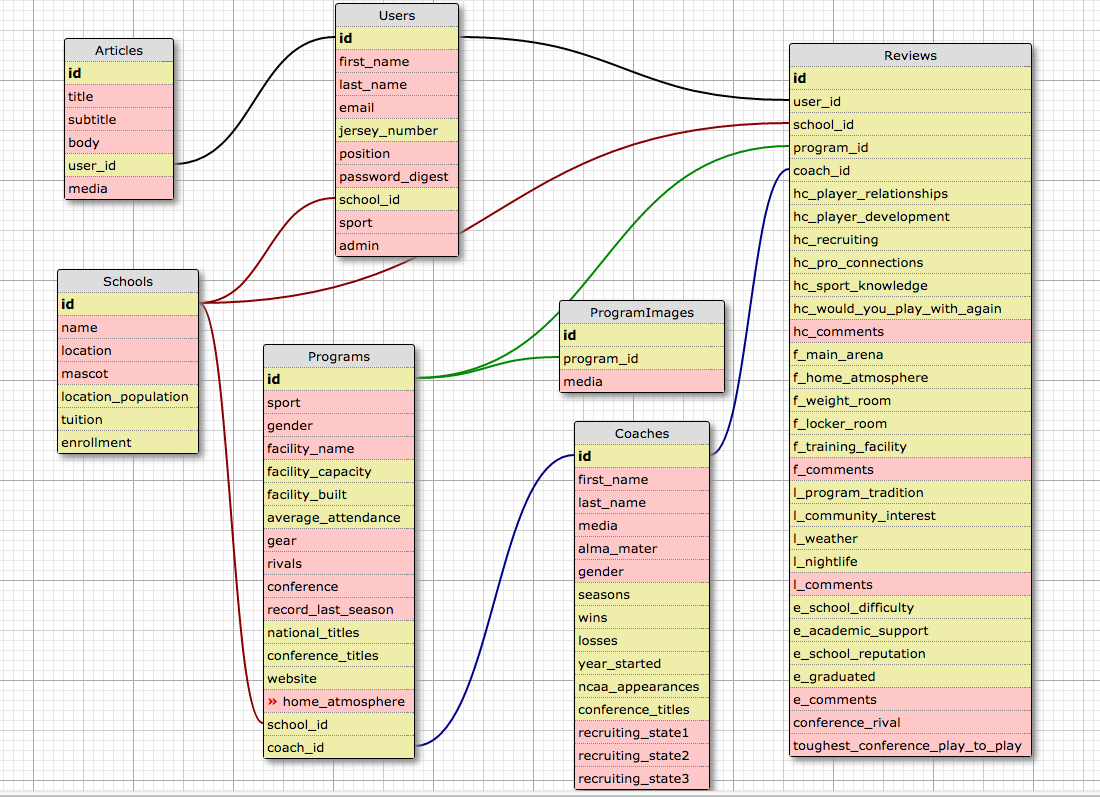
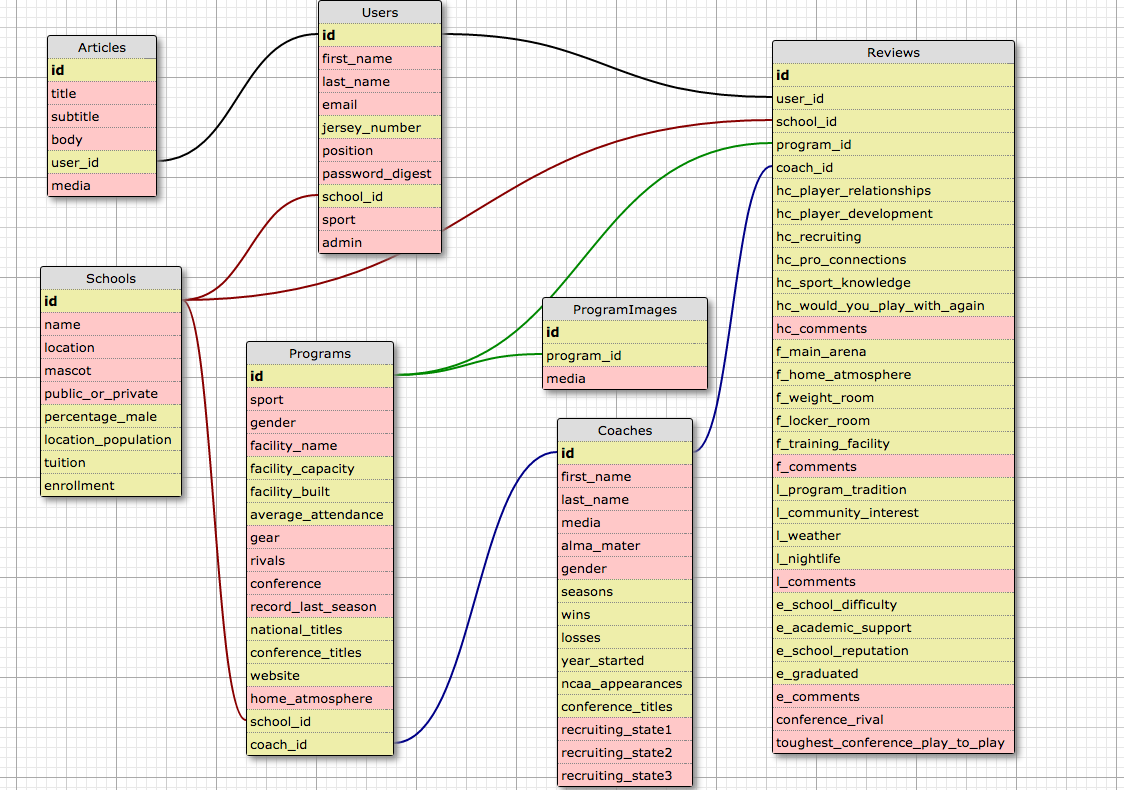
Make more database changes as required, finish up locatin page

diff --git a/db/seeds.rb b/db/seeds.rb
@@ -8,15 +8,15 @@ User.destroy_all
 
 schools_for_seeding = [
   {name: 'University of West Florida',
-    location: 'Pensacola, FL', tuition: rand(14358..34594), location_population: rand(14358..34594), mascot: 'Argonauts', enrollment: rand(5000..15000)},
+    location: 'Pensacola, FL', tuition: rand(14358..34594), location_population: rand(14358..34594), mascot: 'Argonauts', enrollment: rand(5000..15000), public_or_private: ['public', 'private'].sample, percentage_male: rand(30..80)},
   {name: 'Christian Brothers University',
-    location: 'Memphis, TN', tuition: rand(14358..34594), location_population: rand(14358..34594), mascot: 'Argonauts', enrollment: rand(5000..15000)},
+    location: 'Memphis, TN', tuition: rand(14358..34594), location_population: rand(14358..34594), mascot: 'Argonauts', enrollment: rand(5000..15000), public_or_private: ['public', 'private'].sample, percentage_male: rand(30..80)},
   {name: 'Delta State University',
-    location: 'Cleveland, MS' , tuition: rand(14358..34594), location_population: rand(14358..34594), mascot: 'Argonauts', enrollment: rand(5000..15000)},
+    location: 'Cleveland, MS' , tuition: rand(14358..34594), location_population: rand(14358..34594), mascot: 'Argonauts', enrollment: rand(5000..15000), public_or_private: ['public', 'private'].sample, percentage_male: rand(30..80)},
   {name: 'Lee University',
-    location: 'Cleveland, TN', tuition: rand(14358..34594), location_population: rand(14358..34594), mascot: 'Argonauts', enrollment: rand(5000..15000)},
+    location: 'Cleveland, TN', tuition: rand(14358..34594), location_population: rand(14358..34594), mascot: 'Argonauts', enrollment: rand(5000..15000), public_or_private: ['public', 'private'].sample, percentage_male: rand(30..80)},
   {name: 'Mississippi College',
-    location: 'Clinton, MS', tuition: rand(14358..34594), location_population: rand(14358..34594), mascot: 'Argonauts', enrollment: rand(5000..15000)}
+    location: 'Clinton, MS', tuition: rand(14358..34594), location_population: rand(14358..34594), mascot: 'Argonauts', enrollment: rand(5000..15000), public_or_private: ['public', 'private'].sample, percentage_male: rand(30..80)}
 ]
 
 School.create!(schools_for_seeding)

diff --git a/app/models/school.rb b/app/models/school.rb
@@ -33,7 +33,35 @@ class School < ActiveRecord::Base
   end
 
   def average_location_rating
-    ((average_l_program_tradition + average_l_community_interest + average_l_weather + average_l_nightlife)/4).round(1)
+    ((average_l_program_tradition.to_f + average_l_community_interest + average_l_weather + average_l_nightlife)/4).round(1)
+  end
+
+  def location_skill_rankings
+    object = [{score: average_l_program_tradition, language: 'program tradition'}, {score: average_l_community_interest, language: 'community interest'}, {score: average_l_weather, language: 'weather'}, {score: average_l_nightlife, language: 'nightlife'}].sort!{|a,b| a[:score] <=> b[:score]}
+  end
+
+  def location_weak_point
+    location_skill_rankings[0][:language]
+  end
+
+  def location_strong_point
+    location_skill_rankings.last[:language]
+  end
+
+  def all_locations_average
+      School.all.select{|school| school.average_location_rating.is_a?(Float)}.map(&:average_location_rating).reduce(&:+)/School.all.count
+  end
+
+  def location_overall_ranking
+    if average_location_rating.is_a?(String)
+      'average'
+    elsif average_location_rating > all_locations_average
+      'above average'
+    elsif all_locations_average > average_location_rating
+      'below average'
+    else
+      'average'
+    end
   end
 
   def self.top_five_locations
@@ -60,7 +88,7 @@ class School < ActiveRecord::Base
   end
 
   def average_education_rating
-    ((average_e_school_difficulty + average_e_academic_support + average_e_school_reputation)/3).round(1)
+    ((average_e_school_difficulty.to_f + average_e_academic_support + average_e_school_reputation)/3).round(1)
   end
 
   def self.top_five_educations

diff --git a/app/models/review.rb b/app/models/review.rb
@@ -7,10 +7,14 @@ class Review < ActiveRecord::Base
   validates :user_id, :coach_id, :school_id, :program_id, presence: true
 
   def average_coach_rating
-    ((hc_player_development + hc_player_relationships + hc_recruiting + hc_pro_connections + hc_sport_knowledge)/5).round(1)
+    ((hc_player_development.to_f + hc_player_relationships + hc_recruiting + hc_pro_connections + hc_sport_knowledge)/5).round(1)
   end
 
   def average_facility_rating
-    ((f_main_arena + f_home_atmosphere + f_weight_room + f_locker_room + f_training_facility)/5).round(1)
+    ((f_main_arena.to_f + f_home_atmosphere + f_weight_room + f_locker_room + f_training_facility)/5).round(1)
+  end
+
+  def average_location_rating
+    ((l_program_tradition.to_f + l_community_interest + l_weather + l_nightlife)/4).round(1)
   end
 end

diff --git a/app/models/program.rb b/app/models/program.rb
@@ -53,7 +53,7 @@ class Program < ActiveRecord::Base
 
   def average_facility_rating
     if reviews.length > 0
-      ((average_main_arena + average_home_atmosphere + average_weight_room + average_locker_room + average_training_facility)/5).round(1)
+      ((average_main_arena.to_f + average_home_atmosphere + average_weight_room + average_locker_room + average_training_facility)/5).round(1)
     else
       'Not Rated'
     end

diff --git a/app/models/coach.rb b/app/models/coach.rb
@@ -35,7 +35,7 @@ class Coach < ActiveRecord::Base
   end
 
   def average_coach_rating
-    ((average_player_development + average_player_relationships + average_recruiting + average_pro_connections + average_sport_knowledge)/5).round(1)
+    ((average_player_development.to_f + average_player_relationships + average_recruiting + average_pro_connections + average_sport_knowledge)/5).round(1)
   end
 
   def self.top_five_coaches

diff --git a/db/schema.rb b/db/schema.rb
@@ -120,6 +120,8 @@ ActiveRecord::Schema.define(version: 20160601153226) do
     t.string   "name"
     t.string   "location"
     t.string   "mascot"
+    t.string   "public_or_private"
+    t.integer  "percentage_male"
     t.integer  "location_population"
     t.integer  "tuition"
     t.integer  "enrollment"

diff --git a/db/migrate/20160601144451_create_schools.rb b/db/migrate/20160601144451_create_schools.rb
@@ -4,6 +4,8 @@ class CreateSchools < ActiveRecord::Migration
       t.string :name
       t.string :location
       t.string :mascot
+      t.string :public_or_private
+      t.integer :percentage_male
       t.integer :location_population
       t.integer :tuition
       t.integer :enrollment
